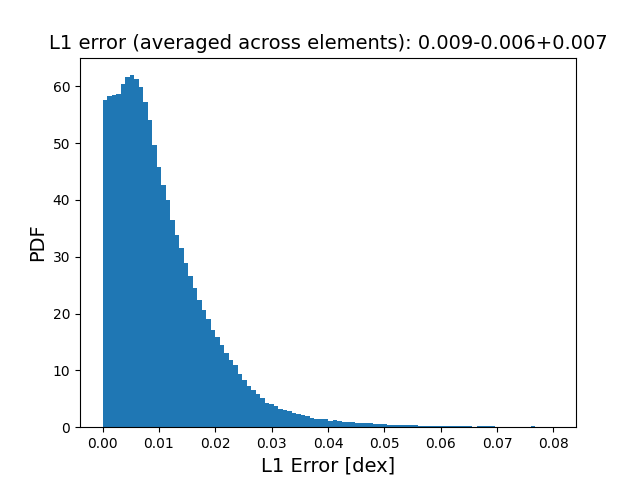
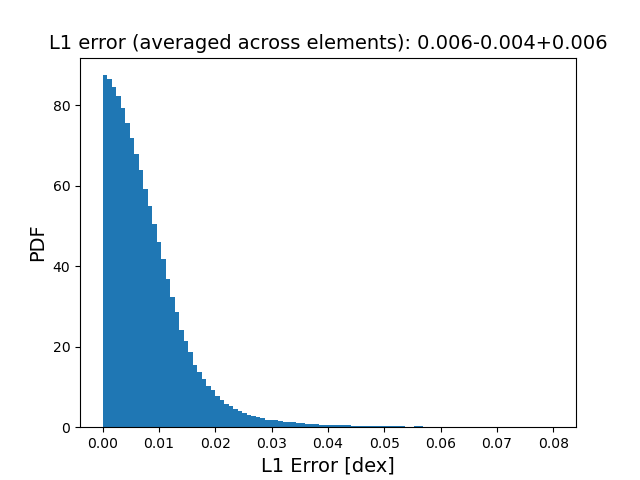
train on cpu (50s)

diff --git a/01_train_torch_chempy.py b/01_train_torch_chempy.py
@@ -11,9 +11,6 @@ from torch.distributions.uniform import Uniform
 import time as t
 import os
 
-
-device = torch.device('cuda' if torch.cuda.is_available() else 'cpu')
-
 # ----- Load the data ---------------------------------------------------------------------------------------------------------------------------------------------
 # --- Load in training data ---
 path_training = os.path.dirname(__file__) + '/data/chempy_data/TNG_Training_Data.npz'
@@ -52,10 +49,10 @@ train_x, train_y = clean_data(train_x, train_y)
 val_x, val_y     = clean_data(val_x, val_y)
 
 # convert to torch tensors
-train_x = torch.tensor(train_x, dtype=torch.float32).to(device)
-train_y = torch.tensor(train_y, dtype=torch.float32).to(device)
-val_x = torch.tensor(val_x, dtype=torch.float32).to(device)
-val_y = torch.tensor(val_y, dtype=torch.float32).to(device)
+train_x = torch.tensor(train_x, dtype=torch.float32)
+train_y = torch.tensor(train_y, dtype=torch.float32)
+val_x = torch.tensor(val_x, dtype=torch.float32)
+val_y = torch.tensor(val_y, dtype=torch.float32)
 
 
 # ----- Define the prior ------------------------------------------------------------------------------------------------------------------------------------------
@@ -80,7 +77,7 @@ class Model_Torch(torch.nn.Module):
         return x
 
 model = Model_Torch()
-model.to(device)
+model
 
 
 # ----- Train the model -------------------------------------------------------------------------------------------------------------------------------------------

diff --git a/README.md b/README.md
@@ -4,9 +4,10 @@
 
 ## 1. Train NN
 Firstly we train a neural network to learn the mapping from chemical abundances to galactic parameters. For this we use data created with CHEMPY as simulator. <br>
-The NN is trained on xx data points and validated on xx data points. <br>
-The batch size is set to 64 and the learning rate is set to 0.001 and trained for 20 epochs. <br>
+The NN is trained on xx data points and validated on xx data points. The batch size is set to 64 and the learning rate is set to 0.001 and trained for 20 epochs. <br>
 The NN is a simple feedforward neural network with 2 hidden layers and 100 neurons in the first and 40 neurons in the second layer. <br>
+That is sufficient for the accuracy of the generated data, since its error rate of $0.006^{+0.006}_{-0.004}$ dex is far below the error rate of real world data of $0.05$ dex. <br>
+It took around $50s$ to train the NN on CPU. <br>
 
 <div style="display: flex; justify-content: space-between;">
   <img src="plots/loss_NN_simulator.png" style="width: 49%;"/>
